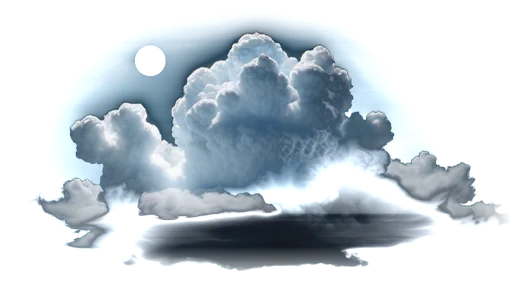
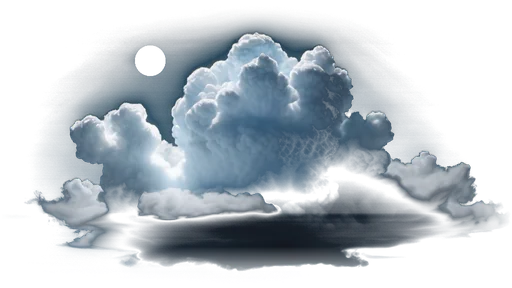
Cloud puffs keep their own colour at the edges (v2026-11-19d)
Claude-Session: https://claude.ai/code/session_01SyKGEso1FsFAALHJxPw357

diff --git a/index.html b/index.html
@@ -95,7 +95,7 @@ h2 { margin: 0; font-size: 54px; line-height: 1; font-weight: 400; }
 <script type="module">
 import * as THREE from 'three';
 
-const VERSION = 'v2026-11-19c';
+const VERSION = 'v2026-11-19d';
 const $ = id => document.getElementById(id);
 const V3 = THREE.Vector3;
 const clamp = (x, a, b) => x < a ? a : x > b ? b : x;

diff --git a/tools/process_art.py b/tools/process_art.py
@@ -55,7 +55,7 @@ def puff(path):
     yy, xx = np.mgrid[0:h, 0:w]
     alpha[(xx - .293 * w) ** 2 + (yy - .21 * h) ** 2 < (.03 * w) ** 2] = 0   # a stray star SDXL added
     edge = np.clip(np.minimum.reduce([xx, w - 1 - xx, yy, h - 1 - yy]) / (.08 * w), 0, 1)   # nothing reaches the edge
-    rgb = np.clip(a / np.maximum(alpha[..., None], 1e-3), 0, 255)
+    rgb = a   # the background is not black, so the colour is kept as it is
     img = np.dstack([rgb, alpha * edge * 255]).astype(np.uint8)
     Image.fromarray(img, 'RGBA').resize((512, int(512 * h / w)), Image.LANCZOS).save(os.path.join(out, 'puff.webp'), quality=85, method=6)
 
